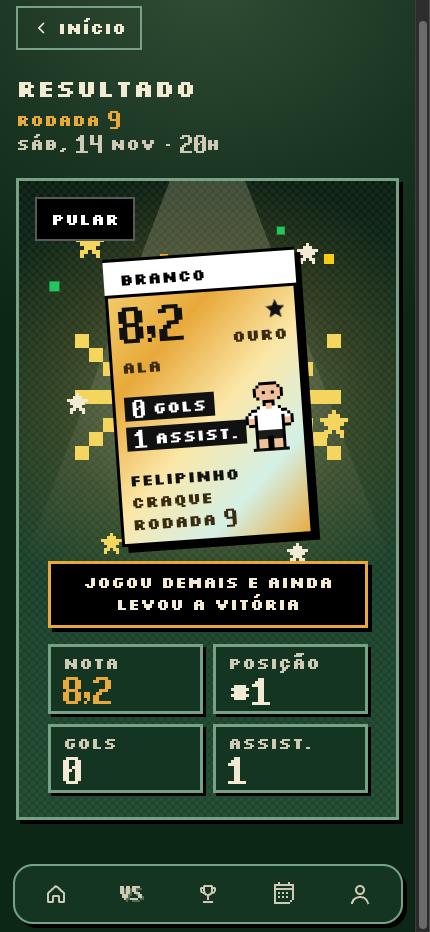
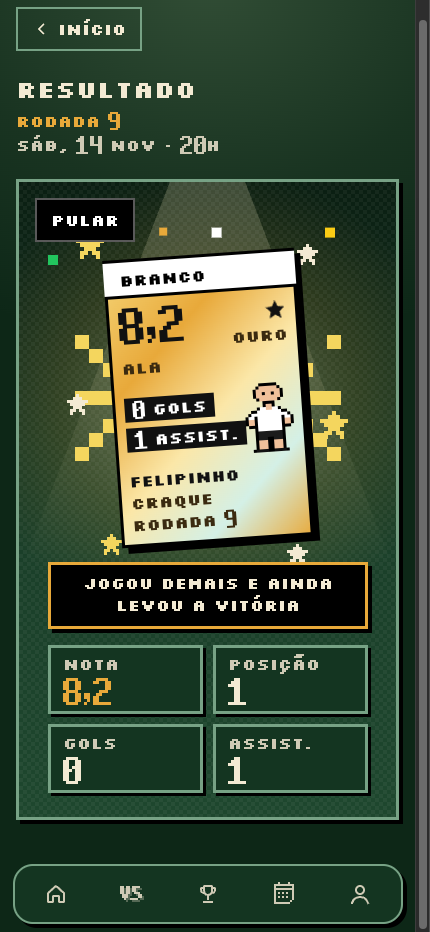
fix(web): selo VOCÊ do Compartilhar inteiro dentro da tira, com folga no acento; prints refeitos

diff --git a/apps/web/src/features/pack/share-card.ts b/apps/web/src/features/pack/share-card.ts
@@ -184,17 +184,20 @@ function drawCard(ctx: CanvasRenderingContext2D, card: PackCard, roundNumber: nu
   ctx.fillRect(3, 36, CARD_W - 6, 3);
   text(ctx, TEAM_LABELS[player.team], 16, 14, { color: white ? '#000' : '#fff' });
   if (card.you) {
-    // O selo VOCÊ: fundo escuro, letras claras, contorno grosso e sombra dura (legível em qualquer faixa)
+    // O selo VOCÊ: fundo escuro, letras claras, contorno grosso e sombra dura (legível em qualquer faixa). Inteiro,
+    // com a sombra, dentro da tira do time e com a mesma margem do nome (13 de cada lado da tira, que vai de 3 a 189)
     const sw = 64;
-    const sx = CARD_W - 9 - sw;
+    const sh = 27;
+    const sx = CARD_W - 3 - 13 - 3 - sw;
+    const sy = 4;
     ctx.fillStyle = '#000';
-    ctx.fillRect(sx + 3, 10, sw, 28);
+    ctx.fillRect(sx + 3, sy + 3, sw, sh);
     ctx.fillStyle = resolveColor('var(--color-text)');
-    ctx.fillRect(sx, 7, sw, 28);
+    ctx.fillRect(sx, sy, sw, sh);
     ctx.fillStyle = '#000';
-    ctx.fillRect(sx + 3, 10, sw - 6, 22);
-    // o texto desce um pouco: o acento do Ê precisa de folga em cima, dentro do selo
-    text(ctx, 'Você', sx + sw / 2, 17, {
+    ctx.fillRect(sx + 3, sy + 3, sw - 6, sh - 6);
+    // o texto fica no meio do miolo: o acento do Ê tem folga em cima e embaixo do miolo sobra a mesma
+    text(ctx, 'Você', sx + sw / 2, sy + 9, {
       color: resolveColor('var(--color-text)'),
       align: 'center',
     });
